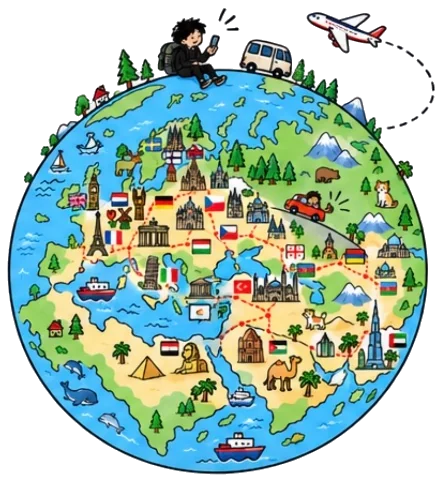
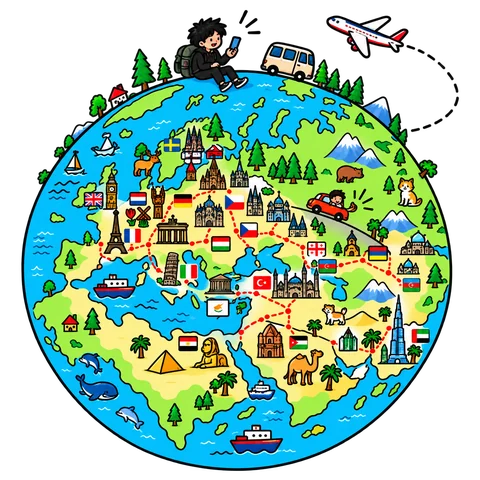
地球のステッカーを、ChatGPT に描き直してもらった1254pxの版に替える
届いた元絵は 437×480 の jpeg で、にじみで旗も名所もぼやけていた。
引き伸ばしても細かくはならず、カードの上で大きくするとぼやけが目立つ。
構図・旗・名所をそのままに描き直してもらい、見比べて人物と旗が変わっていないのを
確かめてから替えた（#780 D1: 手元で抜いて汚れが目立つなら ChatGPT でよい）。

Claude-Session: https://claude.ai/code/session_01E7RzkJr73Ea3gzdTjztWPj

diff --git a/site/content/goods.ts b/site/content/goods.ts
@@ -268,11 +268,11 @@ export const STICKERS: Sticker[] = [
        ほかのステッカーと同じ形）。地球の上に座ってスマホを見ているあやと。
        **島の `/goods` だけに足す。SUZURI には出さない**（#780 Q3: A）。
 
-       **元絵が 437×480 しか無い**（届いたのが jpeg のその大きさ）。ほかの
-       `file` は1,000px 前後あるので、持ち帰る1枚もこの大きさのまま——
-       **引き伸ばして足さない。** 画素が増えるだけで、絵は細かくならない。
-       だから `art` と `file` は同じ寸法で、`art` は縮めずに webp にしただけ。
-       地を抜いた透過の版を、`walk` / `hitch` と同じく余白ごと配る。 */
+       **届いた元絵は 437×480 の jpeg で、にじみで細部がぼやけていた。**
+       引き伸ばしても細かくはならないので、ChatGPT に構図・旗・名所を
+       そのままに描き直してもらい（1254px・透過）、余白を足して配る
+       （#780 D1: 手元で抜いて汚れが目立つなら ChatGPT でよい）。
+       ほかの `file` と同じく、カードで大きくしてもぼやけない大きさ。 */
     id: "globe",
     name: "地球をめぐるあやと",
     art: "/goods/globe.webp",
@@ -280,7 +280,7 @@ export const STICKERS: Sticker[] = [
     saveAs: "ayato-globe.png",
     /* 国旗（イギリス・トルコほか）と名所が描いてある。返すと旗が裏返る */
     canFlip: false,
-    w: 437,
+    w: 480,
     h: 480,
   },
 ];
